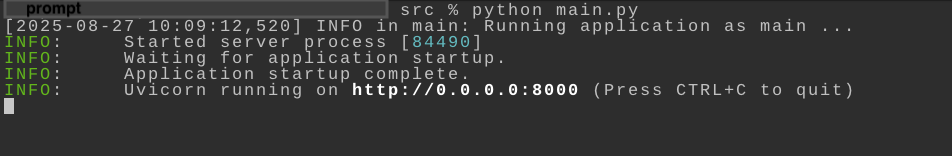
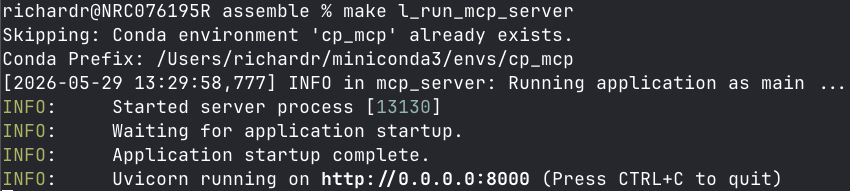
cp

diff --git a/mcp/README.md b/mcp/README.md
@@ -45,40 +45,17 @@ make l_run_db_cli
 
 ---
 
-- $\color{red}{\text{(REQUIRED)}}$ - Run following commands to setup the conda environment with python 3.13.3
+- $\color{red}{\text{(REQUIRED)}}$ - Run following commands to launch the MCP server:
 ~~~
 <new terminal window>
 cd <project root>/mcp/assemble
 make l_run_mcp_server
 ~~~
-
-zzz to delelete
-~~~
-<new terminal window>
-cd ./src
-conda create -n mcp-server python=3.13.3
-conda activate mcp-server
-pip install -r requirements.txt
-pip install aiosqlite
-~~~
-
-
----
-
-
-- (REQUIRED) - Start the MCP server
-~~~
-<new terminal window>
-cd ./src/back_end
-python mcp_server.py
-~~~
+- Note that this command should setup a Conda environment if it does not exist and activate it prior to running the MCP server.
 - When the MCP server script is run, you should see something like this in your terminal:
 ![mcp](./images/mcp.png "mcp")
 
-
-
 ---
-
 
 - (OPTIONAL) - If you want to test the mcp server with Jupyter
 - The Jupyter notebook is helpful when learning how to interact with the MCP server. 
@@ -93,10 +70,7 @@ jupyter notebook
 
 ![jupyter](./images/jupyter.png "jupyter")
 
-
-
 ---
-
 
 - (OPTIONAL) - If you want to run the unit tests,
 - Note that the MCP server must be running and the datbase must exist for the tests to pass
@@ -111,9 +85,7 @@ sh run_unit_tests.sh
 
 - The tests should all succeed. It is best to re-initialize the database prior to running the tests.
 
-
 ---
-
 
 - (OPTIONAL) -  If you want to run the command-line chat interface:
 ~~~
@@ -127,9 +99,7 @@ python cli_demo.py
 
 - Note that the MCP server needs to be running for the chat client to work
 
-
 ---
-
 
 - (OPTIONAL) - If you want to run the MCP inspector:
 ~~~
@@ -141,5 +111,4 @@ sh start_inpector.sh
 - The GUI for the inspector should look like this:
 ![inspector](./images/inspector.png "inspector")
 - Note that the MCP server must be running and the database must exit in order to interact with the tools using the inspector
-
 - Note that the inspector needs `npm` and `nodejs`. These can be installed with brew.